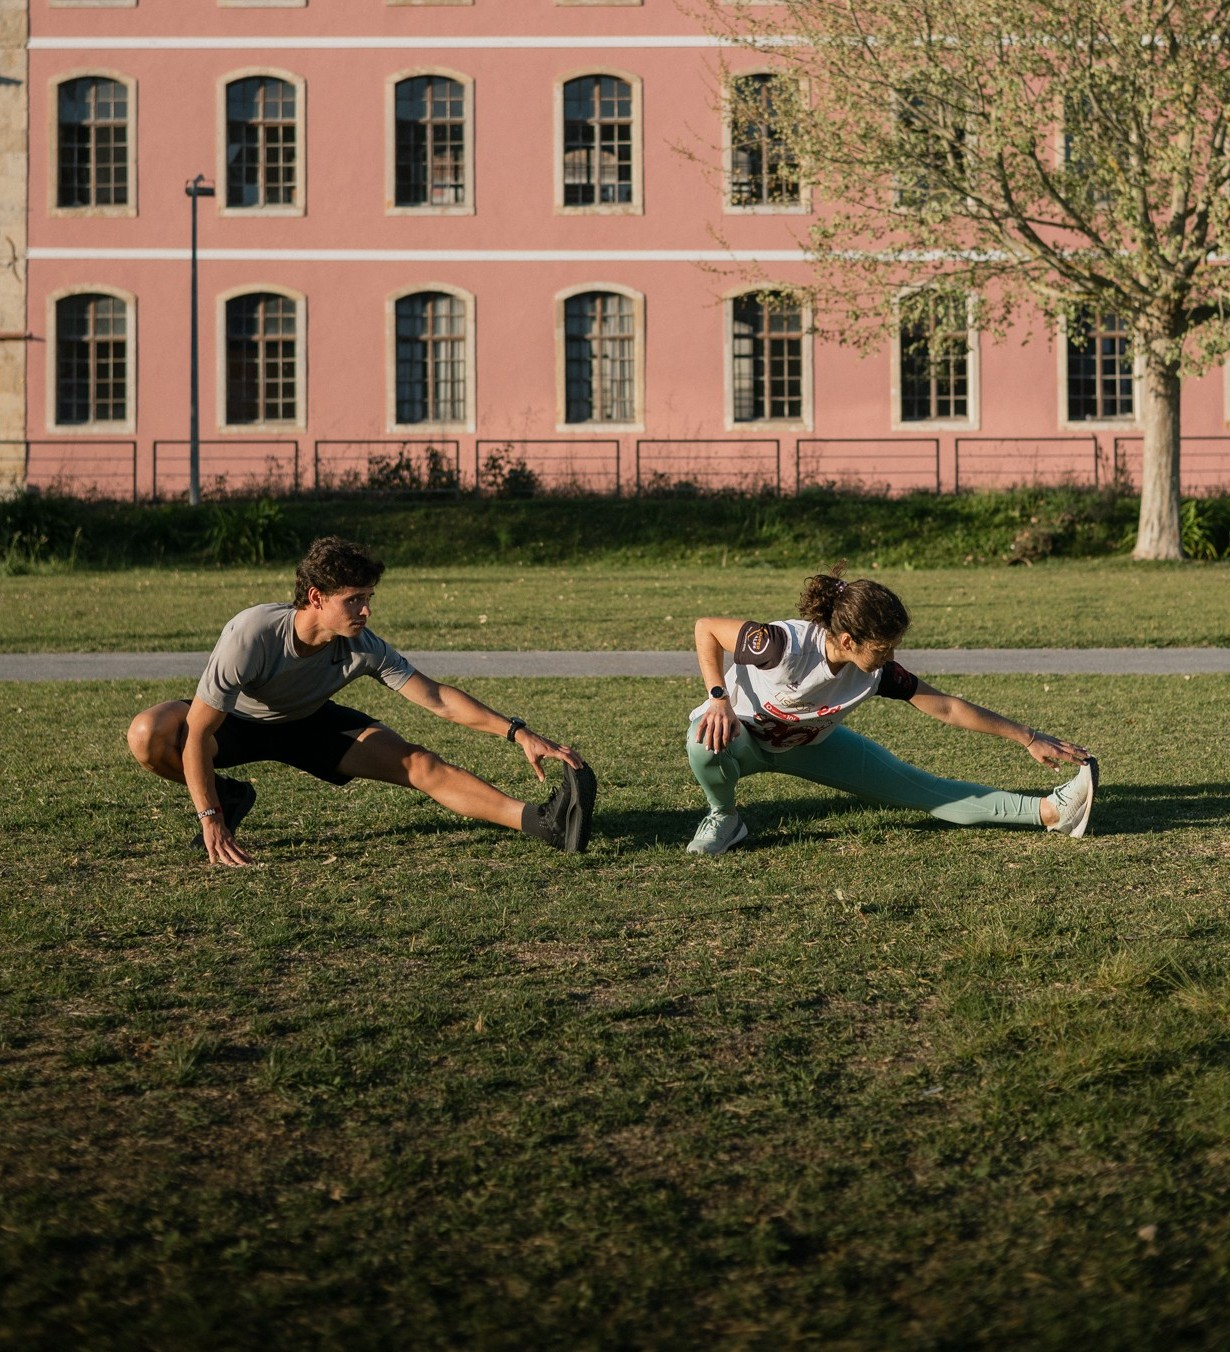
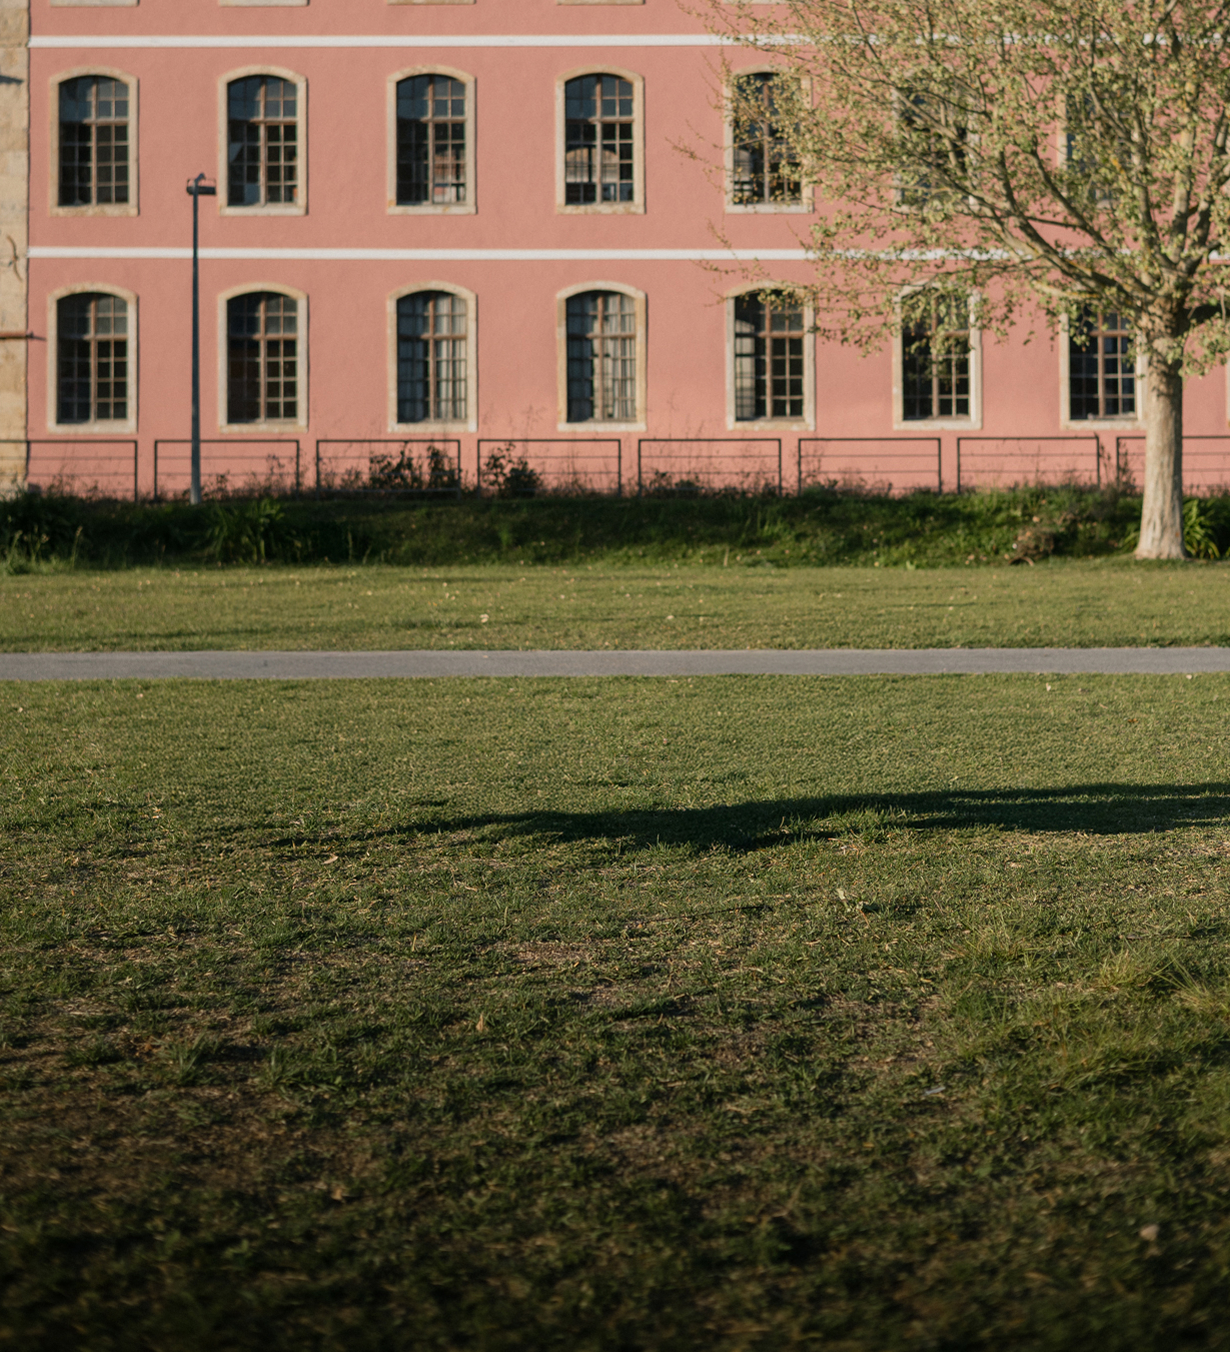
Swap background section images with new ones without subjects. Add overlay image to afterFounder section. Other updates.

diff --git a/src/App.tsx b/src/App.tsx
@@ -7,7 +7,8 @@ import { Observer } from 'gsap/observer'
 import FounderImg from "./assets/images/Founder.jpg";
 import FounderImgAbove from "./assets/images/FounderAbove.png";
 import MaskGradient from "./assets/svg/MaskGradient.tsx";
-import afterFounderImg from "./assets/images/AfterFounder.jpg";
+import AfterFounderImg from "./assets/images/AfterFounder.jpg";
+import AfterFounderImgAbove from "./assets/images/AfterFounderAbove.png";
 import MaskGradient2 from "./assets/svg/MaskGradient2.tsx";
 /* import NavLogo from "./assets/svg/NavLogo.tsx"; */
 import CountUp from './CountUp'
@@ -246,8 +247,8 @@ function App() {
              .to(heroImgContainerEl, { autoAlpha: 0 }, 0)
              .to(founderEl, { autoAlpha: 0 }, 0)
              .to(founderImgContainerEl, { autoAlpha: 0 }, 0)
-             .to(afterFounderEl, { autoAlpha: 1, xPercent: 0 }, 0)
-             .to(afterFounderImgContainerEl, { autoAlpha: 1, xPercent: 0 }, 0)
+             .to(afterFounderEl, { autoAlpha: 0, xPercent: 0 }, 0)
+             .to(afterFounderImgContainerEl, { autoAlpha: 0, xPercent: 0 }, 0)
              .to(beforeWhoWeTrainEl, { autoAlpha: 1, yPercent: 0 }, 0)
              .to(ornamentEl, { x: 800 }, 0)
              // Hide founder badge when leaving founder section
@@ -512,10 +513,12 @@ function App() {
         </div>
       </section>
 
+      <div style={{ backgroundImage: `url(${AfterFounderImgAbove})` }} ref={afterFounderImgContainerRef} className="after-founder-img-overlay-container" />
+
       <section className="section after-founder" ref={afterFounderRef}>
         <div className="after-founder__inner">
           <img
-            src={afterFounderImg}
+            src={AfterFounderImg}
             className="After_Founder__img"
             alt="Founder"
           />
@@ -591,9 +594,10 @@ function App() {
       </section>
 
       <section className="section before-who-we-train" ref={beforeWhoWeTrainRef}>
-        <div className='quote-container'>
+        <div className='quote-container' style={{overflowY: "scroll", minHeight:"8000px"}}>
             <h3>“Helping every athlete, from Olympians to first-timers, evolve with purpose.”</h3>
             <p>Manuel Nicolau</p>
+
         </div>
         
       </section>

diff --git a/src/App.css b/src/App.css
@@ -376,11 +376,14 @@ button.founder-sub:active svg path:first-child { transform: translateY(1px); }
   justify-content: center;
   padding: 30px 0px;
   color: #ACFC17;
+  /* overflow-y: scroll; TODO ## Trying manual scroll with CSS after observer.kill */
 }
+
 
 .after-founder__inner {
   max-width: 960px;
   width: 100%;
+  /* height: 200vh; TODO ## Trying manual scroll with CSS after observer.kill */
 }
 .after-founder img {
   position: absolute;
@@ -467,6 +470,26 @@ button.founder-sub:active svg path:first-child { transform: translateY(1px); }
   color: #ffffff;
   z-index: 10;
   padding-left: 56px; /* align label start with the number’s left edge, not under the SVG */
+}
+
+.after-founder-img-overlay-container {
+  width: 45vw;
+/*   min-width: 656px; */
+  height: 100vh;
+  background-size: cover;
+  --hero-bg-pos-x: 0%; /* anchor slightly left per current design */
+  /* Dynamic upward shift: min 60px, prefers 24vh, max 230px */
+  --hero-bg-shift: clamp(0px, 24vh, 0px);
+  background-position: var(--hero-bg-pos-x) calc(50% - var(--hero-bg-shift));
+  background-repeat: no-repeat;
+  display: flex;
+  align-items: center;
+  position: absolute;
+  right: 0;
+  top: 50px;
+  overflow-x: hidden;
+  opacity: 0;
+  z-index: 31;
 }
 
 /* Before Who We Train section styles */
